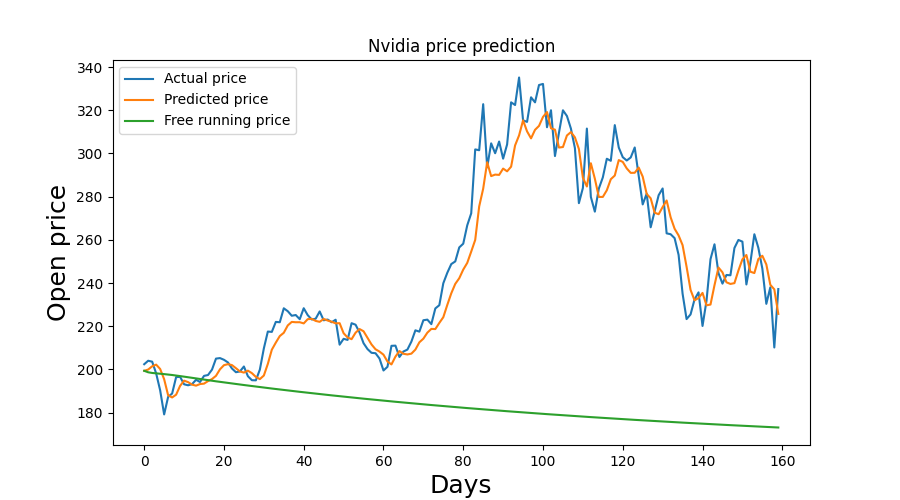
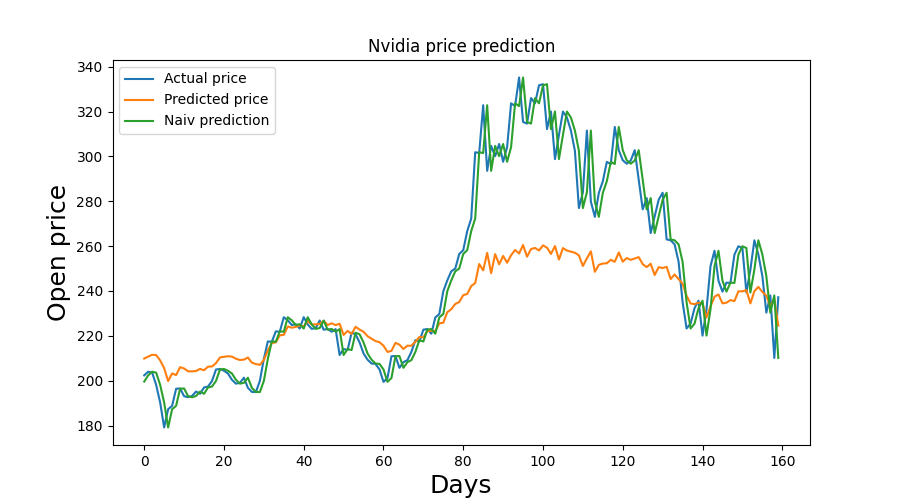
ready for milestone 2

diff --git a/stock-prediction.py b/stock-prediction.py
@@ -59,22 +59,25 @@ def prediction_with_interpolation(data:np.array, length:int, future:int):
 
 def prediction_with_basic_lstm(x_train:np.array, y_train:np.array, x_test:np.array, y_test:np.array, scaler:MinMaxScaler):
     model = BasicModel(TRAIN_SEQUENCE_LENGTH)
-    model.train(x_train, y_train, epochs=1)
+    model.train(x_train, y_train, epochs=500)
     model.evaluate(x_test, y_test)
     predicted = model.predict(x_test)
-    future = model.free_running_prediction(x_test[0], x_test.shape[0])
 
     vs.show_regression_plot(y_test, predicted)
+
     y_test = np.reshape(y_test, (-1, 1))
     y_test = scaler.inverse_transform(y_test)
     predicted = scaler.inverse_transform(predicted)
-    future = scaler.inverse_transform(future)
-    loss, val_loss = model.get_losses()
+    last = [item[-1] for item in x_test]
+    last = np.reshape(last, (-1, 1))
+    last = scaler.inverse_transform(last)
     vs.show_np_arrays(
-        [y_test, predicted, future], 
-        ["Actual price", "Predicted price", "Free running price"], 
+        [y_test, predicted, last], 
+        ["Actual price", "Predicted price", "Naiv prediction"], 
         "Nvidia price prediction"
     )
+
+    loss, val_loss = model.get_losses()
     vs.show_np_arrays(
         [loss, val_loss], 
         ["Training", "Validation"], 
@@ -126,3 +129,4 @@ x_test, y_test = create_x_y_matrices(test_set)
 x_train = np.reshape(x_train, (-1, TRAIN_SEQUENCE_LENGTH, 1))
 x_test = np.reshape(x_test, (-1, TRAIN_SEQUENCE_LENGTH, 1))
 
+prediction_with_basic_lstm(x_train, y_train, x_test, y_test, scaler)

diff --git a/models/lstm.py b/models/lstm.py
@@ -6,18 +6,18 @@ from keras.callbacks import EarlyStopping
 class BasicModel():
     def __init__(self, sequence_length) -> None:
         self.model = Sequential()
-        self.model.add(LSTM(64, return_sequences=True, input_shape = (sequence_length, 1)))
-        self.model.add(Dropout(0.2))
-        self.model.add(LSTM(64, return_sequences=True))
-        self.model.add(Dropout(0.2))
+        self.model.add(LSTM(256, return_sequences=True, input_shape = (sequence_length, 1)))
+        self.model.add(Dropout(0.3))
+        self.model.add(LSTM(128, return_sequences=True))
+        self.model.add(Dropout(0.3))
         self.model.add(LSTM(64))
-        self.model.add(Dropout(0.2))
+        self.model.add(Dropout(0.3))
         self.model.add(Dense(1))
-        self.model.compile(optimizer='adam', loss='mean_squared_error')
+        self.model.compile(optimizer='RMSprop', loss='mae')
         self.model.summary()
 
     def train(self, x_train: np.array, y_train: np.array, epochs: int = 300, batch: int = 32):
-        es = EarlyStopping(monitor='val_loss', patience=20, restore_best_weights=True)
+        es = EarlyStopping(monitor='loss', patience=20, restore_best_weights=True)
         self.history = self.model.fit(x_train, y_train, validation_split=0.1, epochs=epochs, batch_size=batch, callbacks=[es])
 
     def predict(self, dataset: np.array) -> np.array:

diff --git a/README.md b/README.md
@@ -56,11 +56,11 @@ Performance on the test dataset:
 
 ![Basic model performance](images/Basic-model-prediction.png)
 
-As it can be seen on the performance chart, that this model cannot be used in free running mode, meaning that the prediction only makes sense for the next day. The model is likely be using the naiv approach which is the reason why the free running mode doesn't make sense. The correction of the model is in progress.
+As it can be seen on the performance chart, the output isn't that far of from the real figures. It actually manages to avoid naiv predictions which is just simply repeating the last element of the input sequence.
 
 ![Basic model regression](images/Basic-model-regression-plot.png)
 
-Based on the regression plot, the model gives believable results, even though it is using naiv predictions.
+Based on the regression and performance chart, the model is giving reasonable but not accurate predictions.
 
 ### ESN model
 
@@ -77,7 +77,6 @@ The model clearly gives more accurate predictions for the shorter term. For more
 ## Plans for the future
 
 - Add new LSTM model with Nvidia and QQQ as inputs, and Nvidia prediction as output
-- Optimize the basic LSTM model to avoid naiv prediction
 - Compare the results of each model and determine the best
 - Use it in real trading (maybe not the best idea)
 
